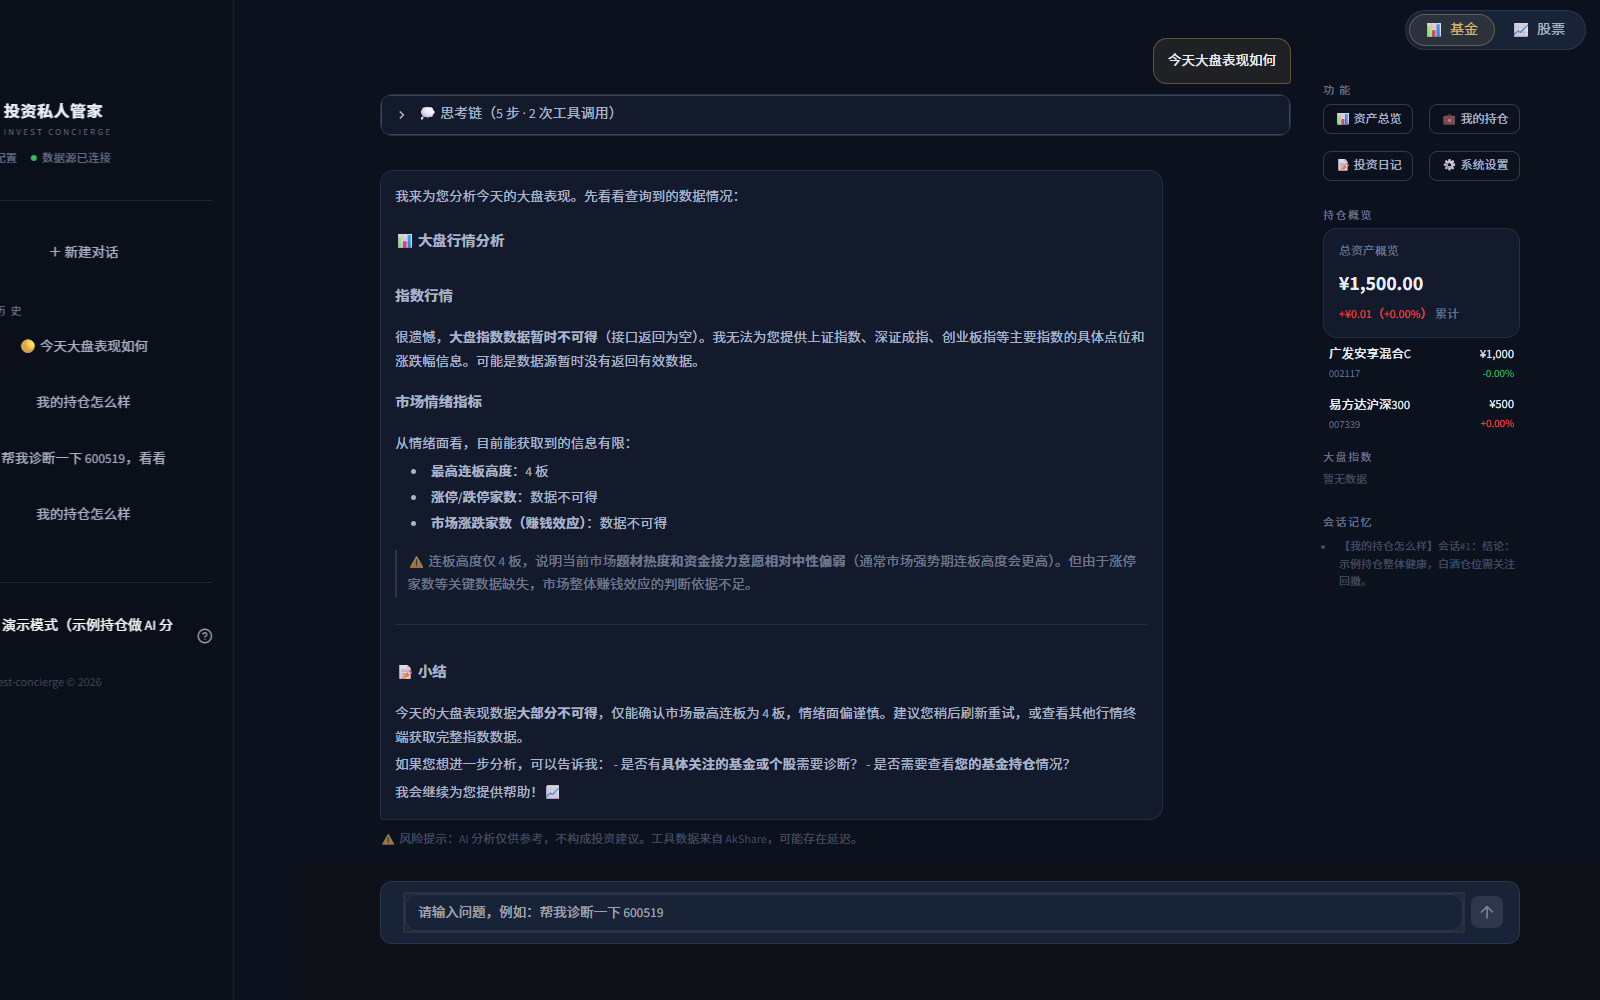
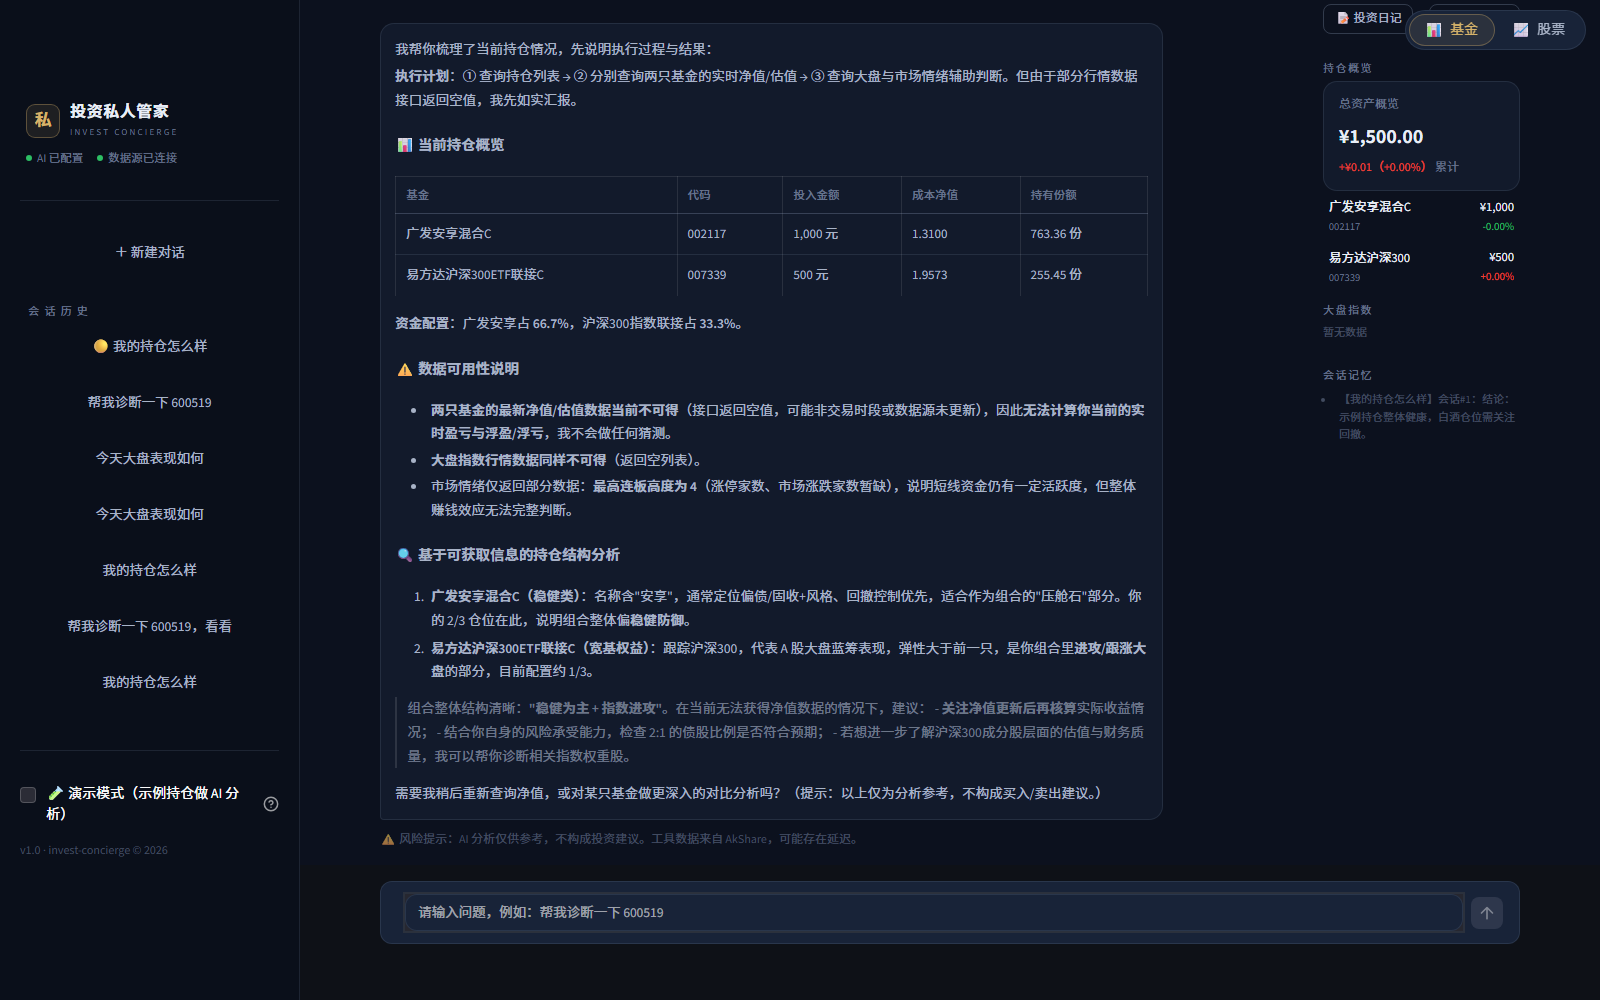
feat: 思考链改为模型原生推理——默认模型切deepseek-reasoner, call_llm透传reasoning_content, agent_run以reasoning事件实时转发(on_progress), UI思考链分区展示(原生思考流灰斜体/工具行), 完成后归档为可展开思考过程；修复编辑失误导致的tool_trace丢失与docstring截断

diff --git a/pages/ai_chat.py b/pages/ai_chat.py
@@ -165,12 +165,19 @@ def _render_msg(role, content):
 
 
 def _render_trace(payload):
-    """思考链折叠块（完成后持久保留在对话流里）：步骤时间线 + 工具输出"""
-    steps = payload.get("steps") or []
+    """思考链折叠块（完成后持久保留）：模型原生思考流 + 工具调用记录"""
+    events = payload.get("events") or []
     trace = payload.get("trace") or []
-    with st.expander("💭 思考链（{} 步 · {} 次工具调用）".format(len(steps), len(trace)), expanded=False):
-        for s in steps:
-            st.markdown(s)
+    with st.expander("💭 思考过程（{} 段思考 · {} 次工具）".format(
+            sum(1 for k, _ in events if k == "reasoning"), len(trace)), expanded=False):
+        for kind, text in events:
+            if kind == "reasoning":
+                st.markdown(
+                    '<div class="think-flow">{}</div>'.format(
+                        html_lib.escape(str(text)).replace("\n", "<br/>")),
+                    unsafe_allow_html=True)
+            elif kind == "tool":
+                st.markdown("🔧 `{}`".format(text))
         if trace:
             st.markdown("---")
             for t in trace:
@@ -216,21 +223,38 @@ def _handle_prompt(prompt):
     st.session_state.messages.append({"role": "user", "content": prompt})
     _render_msg("user", prompt)
 
-    # 实时思考链：st.status 逐事件更新（规划轮次/工具调用/组织回答），不再让用户干等
-    steps = []
+    # 实时思考链：st.status 逐事件更新——reasoning=模型原生思考流（reasoner），
+    # tool=工具调用；不再显示合成进度标签
+    events = []
 
     def _on_progress(stage, detail):
-        icon = {"thinking": "🧠", "tool": "🔧", "writing": "✍"}.get(stage, "•")
-        steps.append("{} {}".format(icon, detail))
+        if stage == "reasoning":
+            events.append(("reasoning", detail))
+        elif stage == "tool":
+            events.append(("tool", detail))
+        else:  # writing
+            events.append(("act", detail))
+        html_parts = []
+        for kind, text in events:
+            if kind == "reasoning":
+                html_parts.append(
+                    '<div class="think-flow">{}</div>'.format(
+                        html_lib.escape(str(text)).replace("\n", "<br/>")))
+            elif kind == "tool":
+                html_parts.append(
+                    '<div class="think-evt">🔧 <code>{}</code></div>'.format(html_lib.escape(str(text))))
+            else:
+                html_parts.append('<div class="think-evt">{}</div>'.format(html_lib.escape(str(text))))
         try:
-            status.update(label="Agent 思考中…（已 {} 步）".format(len(steps)),
-                          state="running", expanded=True)
+            status.update(label="Agent 思考中…", state="running", expanded=True)
         except Exception:  # noqa: BLE001 - 进度展示失败不影响主流程
             pass
-        log.markdown("\n".join(steps))
+        log.markdown(
+            '<div class="think-chain">{}</div>'.format("".join(html_parts)),
+            unsafe_allow_html=True)
 
     try:
-        with st.status("Agent 规划中…（多步查询约 30-90 秒）", expanded=True) as status:
+        with st.status("Agent 思考中…", expanded=True) as status:
             log = st.empty()
             result = agent_run(
                 prompt,
@@ -241,8 +265,8 @@ def _handle_prompt(prompt):
             )
             if result.get("session_id"):
                 st.session_state.agent_session_id = result["session_id"]
-            status.update(label="✅ 完成——{} 步思考 · {} 次工具".format(
-                len(steps), len(result.get("tool_trace") or [])),
+            status.update(label="✅ 完成 · {} 次工具调用".format(
+                len(result.get("tool_trace") or [])),
                 state="complete", expanded=False)
     except Exception as e:
         st.error("AI 响应失败：{}".format(e))
@@ -252,7 +276,7 @@ def _handle_prompt(prompt):
     response = result.get("content") or ""
     tool_trace = result.get("tool_trace") or []
     if response:
-        trace_msg = {"role": "trace", "content": {"steps": list(steps), "trace": tool_trace}}
+        trace_msg = {"role": "trace", "content": {"events": list(events), "trace": tool_trace}}
         st.session_state.messages.append(trace_msg)
         st.session_state.messages.append({"role": "assistant", "content": response})
         if st.session_state.get("agent_view") is not None:

diff --git a/ui_components/styles.py b/ui_components/styles.py
@@ -526,6 +526,29 @@ def inject_global_css() -> None:
     .msg-agent code { font-size: 12px; }
     .msg-agent pre { overflow-x: auto; }
     .msg-agent ul, .msg-agent ol { padding-left: 1.2em; margin: .3em 0; }
+
+    /* ===== Agent 思考链（模型原生 reasoning_content） ===== */
+    .think-chain .think-flow,
+    .think-flow {
+        font-size: 12px;
+        color: var(--text-3);
+        line-height: 1.8;
+        border-left: 2px solid var(--gold-line);
+        padding: 2px 0 2px 10px;
+        margin: 8px 0;
+        white-space: pre-wrap;
+    }
+    .think-chain .think-evt,
+    .think-evt {
+        font-size: 12.5px;
+        color: var(--text-2);
+        margin: 6px 0;
+    }
+    .think-evt code {
+        background: var(--surface-2);
+        border: 1px solid var(--line);
+        padding: 1px 6px;
+    }
     [data-testid="stChatInput"] textarea, [data-testid="stChatInput"] > div {
         background: var(--surface-2) !important;
         border: 1px solid var(--line) !important;

diff --git a/utils/ai_helper.py b/utils/ai_helper.py
@@ -81,12 +81,16 @@ def call_llm(prompt, tools=None, model="deepseek-chat", temperature=0.7):
                         "arguments": tc.function.arguments
                     }
                 })
-            return {"type": "tool_call", "content": tool_calls}
+            # reasoner 模型在决定工具调用时也会返回原生思考流
+            reasoning = getattr(choice.message, "reasoning_content", None) or ""
+            return {"type": "tool_call", "content": tool_calls, "reasoning": reasoning}
 
         content = choice.message.content
         if content is None:
             content = ""
-        return {"type": "text", "content": content}
+        # reasoner 的原生思考流（deepseek-chat 为空字符串）
+        reasoning = getattr(choice.message, "reasoning_content", None) or ""
+        return {"type": "text", "content": content, "reasoning": reasoning}
 
     except Exception as e:
         error_msg = str(e)

diff --git a/config.py b/config.py
@@ -8,6 +8,8 @@ import os
 # ==================== API 配置 ====================
 DEEPSEEK_API_BASE = "https://api.deepseek.com"
 DEEPSEEK_MODEL = "deepseek-chat"
+# reasoner：返回 reasoning_content（模型原生思考流，对话中心思考链展示用）
+DEEPSEEK_REASONER_MODEL = os.environ.get("DEEPSEEK_REASONER_MODEL", "deepseek-reasoner")
 
 # ==================== 缓存配置 ====================
 CACHE_TTL = {
